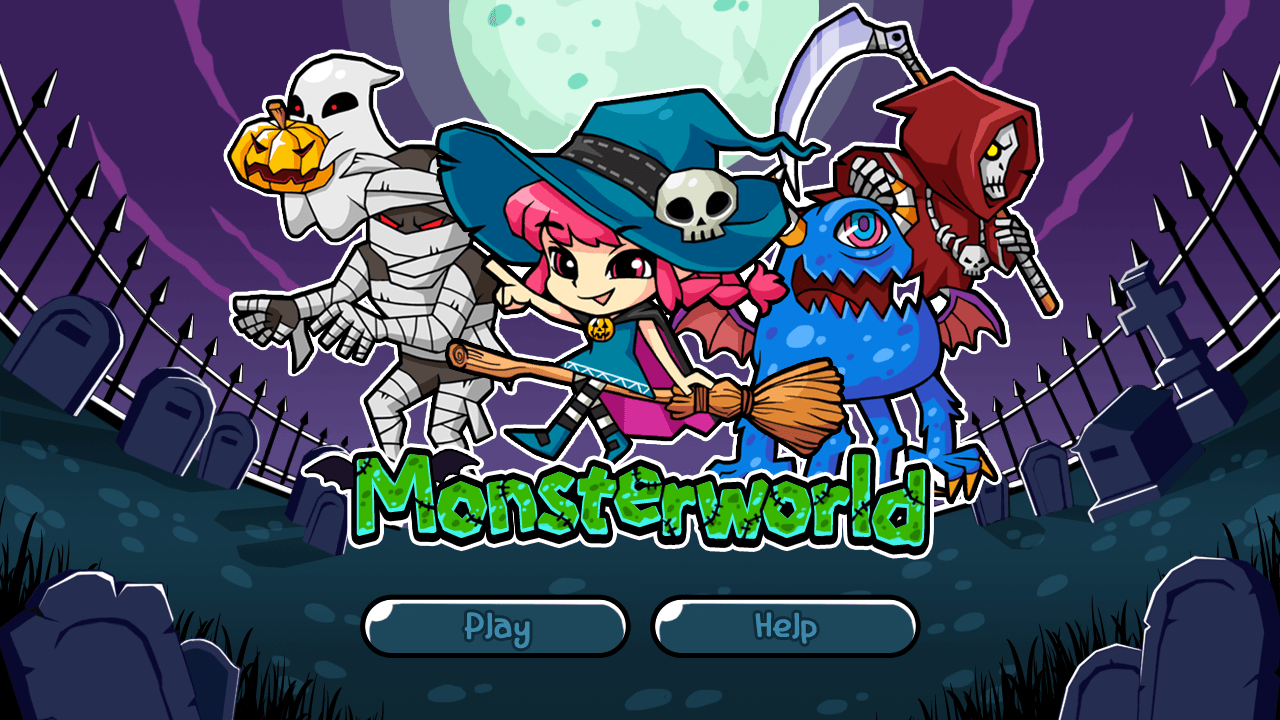
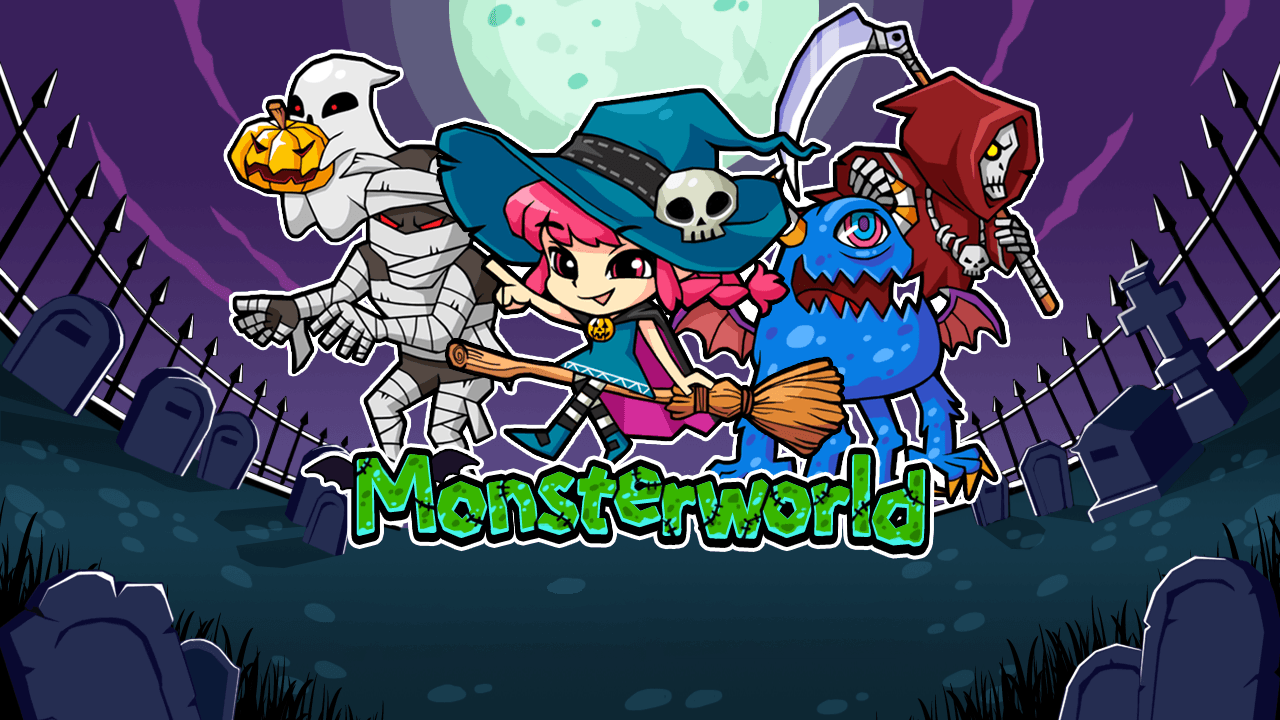
used chatgpt to create the front page

Changed region(s): [[0.2812, 0.825, 0.7188, 0.9167]]

diff --git a/src/main.py b/src/main.py
@@ -1,71 +1,82 @@
 import pygame
-from menu import Pause
+import sys
+import os
 
+# Initialize Pygame
 pygame.init()
 
-# display info
-display_info = pygame.display.Info()
-screen_width = display_info.current_w
-screen_height = display_info.current_h
+# Set up the display
+screen = pygame.display.set_mode((0, 0), pygame.FULLSCREEN)
+pygame.display.set_caption("Full-Screen Window")
 
-# Load and scale the images to full screen
-picture = pygame.transform.smoothscale(pygame.image.load("../assets/img/bg/bg_intro.png"),
-                                       (screen_width, screen_height))
-play_button = pygame.image.load("../assets/img/btn_play_fcs.png")
-exit_button = pygame.image.load("../assets/img/btn_exit_fcs.png")
+# Load background image
+bg_path = os.path.join("assets", "img", "bg", "bg_intro.png")
+background = pygame.image.load(bg_path).convert()
 
-rect = picture.get_rect()
+# Load play button images
+play_button_path = os.path.join("assets", "img", "btn_play.png")
+play_button = pygame.image.load(play_button_path).convert_alpha()
+play_button_focused_path = os.path.join("assets", "img", "btn_play_fcs.png")
+play_button_focused = pygame.image.load(play_button_focused_path).convert_alpha()
+play_button_rect = play_button.get_rect(topleft=(400, screen.get_height() - play_button.get_height() - 80))
 
-REDUCED_SIZE = (980, 520)
-screen = pygame.display.set_mode((screen_width, screen_height), pygame.FULLSCREEN)
+# Load exit button images
+exit_button_path = os.path.join("assets", "img", "btn_exit.png")
+exit_button = pygame.image.load(exit_button_path).convert_alpha()
+exit_button_focused_path = os.path.join("assets", "img", "btn_exit_fcs.png")
+exit_button_focused = pygame.image.load(exit_button_focused_path).convert_alpha()
+exit_button_rect = exit_button.get_rect(bottomright=(screen.get_width() - 400, screen.get_height() - 80))
 
-clock = pygame.time.Clock()
+hovered_play_button = False
+hovered_exit_button = False
 
-paused = False
+# Main loop
 running = True
-fullscreen = False
-font = pygame.font.Font(None, 36)  # Font for the text
-
 while running:
     for event in pygame.event.get():
         if event.type == pygame.QUIT:
             running = False
-
         elif event.type == pygame.KEYDOWN:
-            if event.key == pygame.K_f:
-                fullscreen = not fullscreen
+            if event.key == pygame.K_ESCAPE:
+                running = False
+            elif event.key == pygame.K_RETURN:
+                show_exit_button = True
 
-                if fullscreen:
-                    picture = pygame.image.load("../assets/img/bg/bg_intro.png")
-                    screen = pygame.display.set_mode(REDUCED_SIZE)
-                    picture = pygame.transform.smoothscale(picture, REDUCED_SIZE)
-                    paused = True
-                else:
-                    picture = pygame.image.load("../assets/img/bg/bg_intro.png")
-                    screen = pygame.display.set_mode((screen_width, screen_height), pygame.FULLSCREEN)
-                    picture = pygame.transform.smoothscale(picture, (screen_width, screen_height))
-                    paused = False
+        elif event.type == pygame.MOUSEBUTTONDOWN:
+            if exit_button_rect.collidepoint(event.pos):
+                running = False
 
-        if not paused:
-            pass
+        elif event.type == pygame.MOUSEMOTION:
+            if play_button_rect.collidepoint(event.pos):
+                hovered_play_button = True
+            else:
+                hovered_play_button = False
 
-        else:
-            Pause.pause_menu(screen)
+            if exit_button_rect.collidepoint(event.pos):
+                hovered_exit_button = True
+            else:
+                hovered_exit_button = False
 
-    # testing
-    text = font.render(str(display_info.current_h), True, "black")
+    # Smoothly scale the background image to match the window size
+    scaled_background = pygame.transform.smoothscale(background, screen.get_size())
 
-    # Blit the text onto the screen
-    text_rect = text.get_rect()
-    text_rect.center = (screen_width // 2, 20)
+    # Blit the scaled background image onto the screen
+    screen.blit(scaled_background, (0, 0))
 
-    # screen.fill("purple")  # Fill screen with purple
-    rect = rect.move((0, 0))
-    screen.blit(picture, rect)
-    screen.blit(play_button, (389, 640))
-    screen.blit(text, text_rect)
+    # Draw play button if not showing exit button
+    
+    if hovered_play_button:
+        screen.blit(play_button_focused, play_button_rect)
+    else:
+        screen.blit(play_button, play_button_rect)
+    if hovered_exit_button:
+        screen.blit(exit_button_focused, exit_button_rect)
+    else:
+        screen.blit(exit_button, exit_button_rect)
 
+    # Update the display
     pygame.display.flip()
-    clock.tick(60)
 
+# Quit Pygame
 pygame.quit()
+sys.exit()
